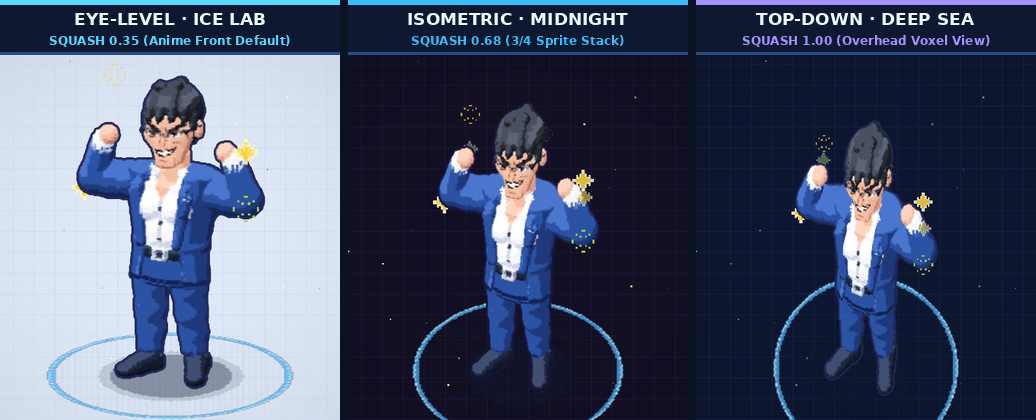
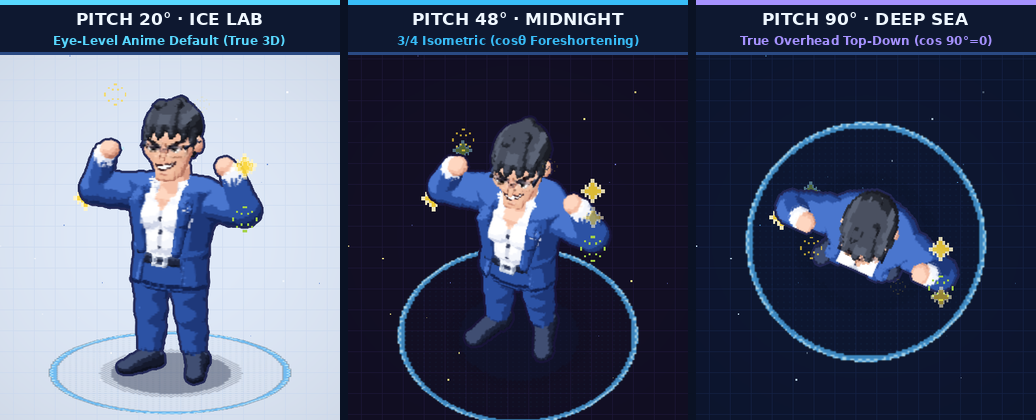
Fix elevation projection with true 3D orthographic sin/cos pitch (15-90 deg)

diff --git a/engine/anime_stack_engine.js b/engine/anime_stack_engine.js
@@ -30,6 +30,9 @@
     { motion: MOTION_LIST[0] ? MOTION_LIST[0].id : "idle", animFps: 24, renderMode: 2, dotSize: 1.35, squash: 0.35, spacing: 1.0, zoom: 1.45, themeIdx: 1, angleDeg: 20.0 },
     CFG.defaults || {}
   );
+  const DEFAULT_PITCH_DEG = (typeof DEFAULTS.pitchDeg === "number")
+    ? Math.max(15, Math.min(90, Math.round(DEFAULTS.pitchDeg)))
+    : Math.max(15, Math.min(90, Math.round((Math.asin(Math.max(0.25, Math.min(1.0, DEFAULTS.squash))) * 180) / Math.PI)));
 
   const TWO_PI = Math.PI * 2;
   const THEMES = [
@@ -59,7 +62,8 @@
     angle: (DEFAULTS.angleDeg * Math.PI) / 180,
     autoSpin: true,
     spinSpeed: 0.42,
-    squash: DEFAULTS.squash,
+    pitchDeg: DEFAULT_PITCH_DEG,
+    squash: Math.sin((DEFAULT_PITCH_DEG * Math.PI) / 180),
     spacing: DEFAULTS.spacing,
     zoom: DEFAULTS.zoom,
     faceFocus: false,
@@ -1054,12 +1058,20 @@
     const assetKey = `${mDef.keyPrefix}${String(fIdx).padStart(2, "0")}`;
     const atlasTex = getAtlasTexture(assetKey);
 
+    // True 3D orthographic elevation: y_screen = rot.y * sin(pitch) - z * cos(pitch) * spacing
+    const pitchRad = (state.pitchDeg * Math.PI) / 180;
+    const sinP = Math.sin(pitchRad);
+    const cosP = Math.cos(pitchRad);
+    state.squash = sinP;
+    const zStep = cosP * state.spacing;
+
     let baseUnitPx;
     if (state.faceFocus) {
       baseUnitPx = Math.min(cw / 108, ch / 118) * (state.zoom / 2.2);
     } else {
       const needW = CHAR.fboVirtW;
-      const needH = CHAR.sliceCount * state.spacing + CHAR.sliceH * 1.1 * state.squash + 44;
+      // Pitch-invariant fit height so tilting the camera never jumps zoom
+      const needH = CHAR.sliceCount * Math.max(1.0, state.spacing) + CHAR.sliceH * 0.42 + 44;
       const fitScale = Math.min(cw / needW, ch / needH);
       baseUnitPx = fitScale * (state.zoom / 1.45);
     }
@@ -1068,14 +1080,21 @@
     const sxMul = state.sqX;
     const syMul = state.sqY;
 
+    // Dynamically center character pivot inside charFbo so all pitch angles (15°..90°) fit cleanly
+    const charBottomMargin = Math.max(22, Math.ceil(CHAR.sliceH * 0.52 * sinP + 14));
+    const charPivotY = Math.min(
+      charFbo.virtH - charBottomMargin,
+      Math.round(charFbo.virtH * 0.5 + (CHAR.sliceCount * 0.44) * zStep)
+    );
+
     // PASS 1A: Main 3D character stack -> charFbo
     if (atlasTex) {
-      const vbo = (state.spacing > 1.32) ? charVBO1x : charVBO2x;
+      const vbo = (zStep < 0.05 || state.spacing > 1.32) ? charVBO1x : charVBO2x;
       renderStackToFbo(
         charFbo, vbo, atlasTex,
         CHAR.sliceW, CHAR.sliceH, CHAR.atlasCols, CHAR.atlasRows,
-        CHAR_PIVOT_X, CHAR_PIVOT_Y,
-        state.angle, state.squash, state.spacing, sxMul, syMul
+        CHAR_PIVOT_X, charPivotY,
+        state.angle, sinP, zStep, sxMul, syMul
       );
     }
 
@@ -1098,14 +1117,19 @@
         const vx = -rx * Math.sin(orbitPh);
         const vy = ry * Math.cos(orbitPh);
         const compAngle = (orb.faceTangent !== false) ? (state.angle + Math.atan2(-vx, vy)) : state.angle;
-        const cVbo = (state.spacing > 1.32) ? cg.vbo1x : cg.vbo2x;
+        const compBottomMargin = Math.max(14, Math.ceil(cd.sliceH * 0.52 * sinP + 8));
+        const compPivotY = Math.min(
+          cg.fbo.virtH - compBottomMargin,
+          Math.round(cg.fbo.virtH * 0.5 + (cd.sliceCount * 0.45) * zStep)
+        );
+        const cVbo = (zStep < 0.05 || state.spacing > 1.32) ? cg.vbo1x : cg.vbo2x;
         renderStackToFbo(
           cg.fbo, cVbo, cTex,
           cd.sliceW, cd.sliceH, cd.atlasCols, cd.atlasRows,
-          cg.pivotX, cg.pivotY,
-          compAngle, state.squash, state.spacing, 1.0, 1.0
+          cg.pivotX, compPivotY,
+          compAngle, sinP, zStep, 1.0, 1.0
         );
-        compDraw = { cg, wx, wy, wz, scale: cd.scale ?? 0.92, outRgb: cd.outlineRgb || theme.outline };
+        compDraw = { cg, pivotY: compPivotY, wx, wy, wz, scale: cd.scale ?? 0.92, outRgb: cd.outlineRgb || theme.outline };
       }
     }
 
@@ -1129,10 +1153,11 @@
     const screenCx = cw * 0.5;
     let screenGroundY;
     if (state.faceFocus) {
-      screenGroundY = ch * 0.56 + CHAR.faceFocusZ * state.spacing * baseUnitPx;
+      screenGroundY = ch * 0.56 + CHAR.faceFocusZ * zStep * baseUnitPx;
     } else {
-      const totalH = (CHAR.sliceCount * state.spacing + 70.0 * state.squash) * baseUnitPx;
-      screenGroundY = ch * 0.50 + totalH * 0.36;
+      // Orbit camera pitch smoothly around character vertical center
+      const midZ = CHAR.sliceCount * 0.44;
+      screenGroundY = ch * 0.51 + midZ * zStep * baseUnitPx;
     }
 
     const ca = Math.cos(state.angle);
@@ -1146,7 +1171,7 @@
       const ry = px * sa + py * ca;
       return {
         sx: screenCx + rx * sxMul * baseUnitPx,
-        sy: screenGroundY + (ry * state.squash - wz * state.spacing) * syMul * baseUnitPx,
+        sy: screenGroundY + (ry * sinP - wz * zStep) * syMul * baseUnitPx,
         depth: ry,
       };
     }
@@ -1163,7 +1188,7 @@
       const ringTex = getStaticTex("turntableRing");
       if (ringTex) {
         const rw = 132 * baseUnitPx;
-        const rh = 132 * state.squash * baseUnitPx;
+        const rh = 132 * sinP * baseUnitPx;
         drawQuadSprite(ringTex, screenCx, screenGroundY, rw, rh, 0.94, 0);
       }
 
@@ -1182,7 +1207,7 @@
             if (rp > 0.0 && rp < 1.0) {
               const pRing = fx.forwardOffset ? project3D(0, fx.forwardOffset + rp * 28, 1.0) : { sx: screenCx, sy: screenGroundY };
               const sc = (fx.startScale ?? 0.60) + rp * (fx.expandScale ?? 1.50);
-              drawQuadSprite(wTex, pRing.sx, pRing.sy, 128 * sc * baseUnitPx, 128 * sc * state.squash * baseUnitPx, Math.sin(rp * Math.PI) * 0.86, 0, [0.85, 0.98, 1.0]);
+              drawQuadSprite(wTex, pRing.sx, pRing.sy, 128 * sc * baseUnitPx, 128 * sc * sinP * baseUnitPx, Math.sin(rp * Math.PI) * 0.86, 0, [0.85, 0.98, 1.0]);
             }
           }
         }
@@ -1191,7 +1216,7 @@
       const shTex = getStaticTex("shadowDither");
       if (shTex) {
         const sw = 74 * airScale * sxMul * baseUnitPx;
-        const sh = 52 * airScale * (state.squash / 0.70) * baseUnitPx;
+        const sh = 74 * airScale * sinP * baseUnitPx;
         drawQuadSprite(shTex, screenCx, screenGroundY, sw, sh, 0.92, 0);
       }
     }
@@ -1208,14 +1233,14 @@
       const shTex = getStaticTex("shadowDither");
       if (state.stageOn && shTex) {
         const ws = project3D(compDraw.wx, compDraw.wy, 0);
-        drawQuadSprite(shTex, ws.sx, ws.sy, 32 * baseUnitPx, 22 * (state.squash / 0.70) * baseUnitPx, 0.42, 0);
+        drawQuadSprite(shTex, ws.sx, ws.sy, 32 * baseUnitPx, 32 * sinP * baseUnitPx, 0.42, 0);
       }
-      compositeFbo(compDraw.cg.fbo, compProj.sx, compProj.sy, compDraw.cg.pivotX, compDraw.cg.pivotY, baseUnitPx * compDraw.scale, compDraw.outRgb, 1.05);
+      compositeFbo(compDraw.cg.fbo, compProj.sx, compProj.sy, compDraw.cg.pivotX, compDraw.pivotY, baseUnitPx * compDraw.scale, compDraw.outRgb, 1.05);
     }
 
     // 2D. MAIN 3D CHARACTER
     if (atlasTex) {
-      compositeFbo(charFbo, screenCx, screenGroundY, CHAR_PIVOT_X, CHAR_PIVOT_Y, baseUnitPx, theme.outline, 1.12);
+      compositeFbo(charFbo, screenCx, screenGroundY, CHAR_PIVOT_X, charPivotY, baseUnitPx, theme.outline, 1.12);
     }
 
     // 2E. FRONT 3D LAYER
@@ -1223,9 +1248,9 @@
       const shTex = getStaticTex("shadowDither");
       if (state.stageOn && shTex) {
         const ws = project3D(compDraw.wx, compDraw.wy, 0);
-        drawQuadSprite(shTex, ws.sx, ws.sy, 32 * baseUnitPx, 22 * (state.squash / 0.70) * baseUnitPx, 0.42, 0);
+        drawQuadSprite(shTex, ws.sx, ws.sy, 32 * baseUnitPx, 32 * sinP * baseUnitPx, 0.42, 0);
       }
-      compositeFbo(compDraw.cg.fbo, compProj.sx, compProj.sy, compDraw.cg.pivotX, compDraw.cg.pivotY, baseUnitPx * compDraw.scale, compDraw.outRgb, 1.05);
+      compositeFbo(compDraw.cg.fbo, compProj.sx, compProj.sy, compDraw.cg.pivotX, compDraw.pivotY, baseUnitPx * compDraw.scale, compDraw.outRgb, 1.05);
     }
     for (let i = 0; i < front.length; i++) {
       const pt = front[i];
@@ -1348,7 +1373,7 @@
     bOut.querySelector("span").textContent = state.outlineOn ? "OUTLINE: ON" : "OUTLINE: OFF";
 
     document.getElementById("txtTheme").textContent = THEMES[state.themeIdx].name;
-    document.getElementById("btnTopView").classList.toggle("active", state.squash >= 0.98);
+    document.getElementById("btnTopView").classList.toggle("active", state.pitchDeg >= 89);
     document.getElementById("btnSpread").classList.toggle("active", state.spacing >= 1.80);
     document.getElementById("btnFaceZoom").classList.toggle("active", state.faceFocus);
   }
@@ -1374,7 +1399,8 @@
     if (state.faceFocus) {
       state.zoom = 2.25;
       state.spacing = 1.0;
-      state.squash = DEFAULTS.squash;
+      state.pitchDeg = DEFAULT_PITCH_DEG;
+      state.squash = Math.sin((state.pitchDeg * Math.PI) / 180);
       syncSpacing();
       syncSquash();
     } else {
@@ -1405,7 +1431,12 @@
     });
 
     syncFps = bindPixelSlider("slFps", 6, 36, 1, () => state.animFps, (v) => { state.animFps = Math.round(v); }, (v) => { valFps.textContent = String(Math.round(v)); });
-    syncSquash = bindPixelSlider("slSquash", 0.35, 1.0, 0.01, () => state.squash, (v) => { state.squash = v; syncButtons(); }, (v) => { valSquash.textContent = v.toFixed(2); });
+    syncSquash = bindPixelSlider(
+      "slSquash", 15, 90, 1,
+      () => state.pitchDeg,
+      (v) => { state.pitchDeg = Math.round(v); state.squash = Math.sin((state.pitchDeg * Math.PI) / 180); syncButtons(); },
+      (v) => { valSquash.textContent = String(Math.round(v)) + "°"; }
+    );
     syncSpacing = bindPixelSlider("slSpacing", 0.5, 2.2, 0.05, () => state.spacing, (v) => { state.spacing = v; syncButtons(); }, (v) => { valSpacing.textContent = v.toFixed(2); });
     syncZoom = bindPixelSlider("slZoom", 0.8, 3.2, 0.05, () => state.zoom, (v) => { state.zoom = v; }, (v) => { valZoom.textContent = v.toFixed(2) + "x"; });
 
@@ -1448,8 +1479,24 @@
     }
 
     document.getElementById("btnPlayAnim").addEventListener("click", togglePlayAnim);
-    document.getElementById("btnTopView").addEventListener("click", () => { state.faceFocus = false; state.squash = state.squash >= 0.98 ? DEFAULTS.squash : 1.0; syncSquash(); syncButtons(); });
-    document.getElementById("btnSpread").addEventListener("click", () => { state.faceFocus = false; state.spacing = state.spacing >= 1.80 ? 1.0 : 2.0; syncSpacing(); syncButtons(); });
+    document.getElementById("btnTopView").addEventListener("click", () => {
+      state.faceFocus = false;
+      state.pitchDeg = state.pitchDeg >= 89 ? DEFAULT_PITCH_DEG : 90;
+      state.squash = Math.sin((state.pitchDeg * Math.PI) / 180);
+      syncSquash();
+      syncButtons();
+    });
+    document.getElementById("btnSpread").addEventListener("click", () => {
+      state.faceFocus = false;
+      state.spacing = state.spacing >= 1.80 ? 1.0 : 2.0;
+      if (state.spacing >= 1.80 && state.pitchDeg > 65) {
+        state.pitchDeg = 38;
+        state.squash = Math.sin((state.pitchDeg * Math.PI) / 180);
+        syncSquash();
+      }
+      syncSpacing();
+      syncButtons();
+    });
     document.getElementById("btnFaceZoom").addEventListener("click", toggleFaceFocus);
     document.getElementById("btnBounce").addEventListener("click", () => impulseSquash(0.84, 1.20));
     document.getElementById("btnAutoSpin").addEventListener("click", () => { state.autoSpin = !state.autoSpin; syncButtons(); });
@@ -1470,7 +1517,8 @@
       state.autoSpin = true;
       state.springOn = true;
       state.fxOn = true;
-      state.squash = DEFAULTS.squash;
+      state.pitchDeg = DEFAULT_PITCH_DEG;
+      state.squash = Math.sin((state.pitchDeg * Math.PI) / 180);
       state.spacing = DEFAULTS.spacing;
       state.zoom = DEFAULTS.zoom;
       state.faceFocus = false;

diff --git a/engine/viewer_shell.html b/engine/viewer_shell.html
@@ -585,15 +585,15 @@
         </div>
 
         <div class="slider-row">
-          <span class="slider-label">SQUASH</span>
-          <div class="px-slider" id="slSquash" role="slider" tabindex="0" aria-label="Camera Squash" aria-valuemin="0.35" aria-valuemax="1.00" aria-valuenow="0.35">
+          <span class="slider-label">PITCH</span>
+          <div class="px-slider" id="slSquash" role="slider" tabindex="0" aria-label="Camera Pitch Angle" aria-valuemin="15" aria-valuemax="90" aria-valuenow="20">
             <div class="px-slider-track">
               <div class="px-slider-fill"></div>
               <div class="px-slider-ticks"></div>
             </div>
             <div class="px-slider-thumb"></div>
           </div>
-          <span class="slider-val" id="valSquash">0.35</span>
+          <span class="slider-val" id="valSquash">20°</span>
           <button class="px-btn slider-action" id="btnTopView" type="button">TOP</button>
         </div>
 

diff --git a/README.md b/README.md
@@ -62,11 +62,11 @@
   <img src="assets/render_styles_compare.png" alt="4 Render Modes: SMOOTH AA / PIXEL+AA / RETRO PX / SILKY 3D" width="860" />
 </p>
 
-### 3. リアルタイム視点ピッチ（SQUASH）＆ 3 スタジオテーマ
-160 枚の 2D スライス層を GPU 上で連続回転・2 倍インターリーブ補間（計 320 層）することで、アイレベル寄りのアニメ視点（`0.35`）から 3/4 アイソメトリック・真上トップダウン視点（`1.00`）までシームレスに連続変化。3 種類の背景テーマも即時切替できます。
+### 3. 真の 3D 正射影ピッチ（`PITCH 15°〜90°`）＆ 3 スタジオテーマ
+160 枚の 2D スライス層を GPU 上で連続回転し、**真の 3D 正射影（`y = rot.y · sin(θ) − z · cos(θ)`）** と 2 倍インターリーブ補間（計 320 層）で投影。アイレベル寄りのアニメ視点（`20°`）から 3/4 アイソメトリック（`48°`）、真上トップダウン視点（`90°`）までボディが伸びずに自然な立体感を維持します。
 
 <p align="center">
-  <img src="assets/camera_themes_demo.png" alt="Camera Pitch (SQUASH 0.35 / 0.68 / 1.00) & 3 Themes (ICE LAB / DEEP SEA / MIDNIGHT)" width="820" />
+  <img src="assets/camera_themes_demo.png" alt="True 3D Orthographic Camera Pitch (20° / 48° / 90°) & 3 Themes (ICE LAB / MIDNIGHT / DEEP SEA)" width="820" />
 </p>
 
 ### 4. 本エンジン採用ショーケース（[kuraneko1/deepseek-chan-3d](https://github.com/kuraneko1/deepseek-chan-3d)）
@@ -156,7 +156,7 @@ flowchart LR
   - `PIXEL+AA`: 正方形ドット粒感＋滑らか境界 AA（`DOT SIZE` 調整対応）
   - `RETRO PX`: ハードエッジドット＋4 方向階段輪郭＋カラー量子化
   - `SILKY 3D`: フィギュア風の滑らかバイリニア補間
-- **アニメ映え初期設定**: `SQUASH 0.35`（アイレベル寄り正面視点）・`ICE LAB`（明るいスタジオ背景）・`SMOOTH AA` を標準設定。
+- **アニメ映え初期設定 & 真の 3D 俯瞰投影**: `PITCH 20°`（`sin θ ≈ 0.35`・`cos θ` による正確な Z 短縮投影）・`ICE LAB`（明るいスタジオ背景）・`SMOOTH AA` を標準設定。
 - **複数 3D スタック前後 Z ソート**: 主役キャラの周囲を泳ぐ 3D 相棒モデル（第 2 FBO）や 3D パーティクルを、カメラ角度に応じて自動でキャラの後ろ／前面へ正確に前後ソート。
 - **宣言的 `motion_pack.json`**: モーション一覧・3D 相棒軌道・吹き出しオーバーレイ・3D パーティクル（`sparkle_perimeter` / `orbit_trail` / `burst_above` / `forward_slash_fan` / `helix_vortex` / `floor_wave_rings`）を JSON で定義するだけでエンジン無改造で動作。
 - **24 コマ・バレットタイムタイムライン**: 一時停止＆スクラブしながら 360° 回転させて攻撃エフェクトや 3D 相棒を観察可能。

diff --git a/README.en.md b/README.en.md
@@ -62,11 +62,11 @@ Switch instantaneously between silky anime anti-aliasing, chunky pixel grain, cl
   <img src="assets/render_styles_compare.png" alt="4 Render Modes: SMOOTH AA / PIXEL+AA / RETRO PX / SILKY 3D" width="860" />
 </p>
 
-### 3. Real-Time Camera Elevation (`SQUASH`) & 3 Studio Themes
-160 stacked 2D slice textures rotate continuously on the GPU with 2× interleaved sub-slice interpolation (320 effective layers), letting you glide seamlessly from eye-level anime view (`0.35`) through isometric 3/4 to true overhead top-down (`1.00`) across 3 studio themes.
+### 3. True 3D Orthographic Pitch (`15°–90°`) & 3 Studio Themes
+160 stacked 2D slice textures rotate continuously on the GPU with **true 3D orthographic elevation (`y = rot.y · sin θ − z · cos θ`)** and 2× interleaved sub-slice interpolation (320 effective layers)—gliding smoothly from eye-level anime view (`20°`) through 3/4 isometric (`48°`) to true top-down (`90°`) with zero vertical body distortion.
 
 <p align="center">
-  <img src="assets/camera_themes_demo.png" alt="Camera Pitch (SQUASH 0.35 / 0.68 / 1.00) & 3 Themes (ICE LAB / DEEP SEA / MIDNIGHT)" width="820" />
+  <img src="assets/camera_themes_demo.png" alt="True 3D Orthographic Camera Pitch (20° / 48° / 90°) & 3 Themes (ICE LAB / MIDNIGHT / DEEP SEA)" width="820" />
 </p>
 
 ### 4. Flagship Showcase Built with This Engine ([kuraneko1/deepseek-chan-3d](https://github.com/kuraneko1/deepseek-chan-3d/blob/main/README.en.md))
@@ -156,7 +156,7 @@ flowchart LR
   - `PIXEL+AA`: Crisp square pixel dots with smooth antialiased outer edges (adjustable `DOT SIZE`).
   - `RETRO PX`: Classic hard-edge pixels + 4-way stepped pixel outline + retro color quantization.
   - `SILKY 3D`: Smooth bilinear figurine-style surface rendering.
-- **Anime-Ready Defaults**: Ships tuned out of the box with `SQUASH 0.35` (eye-level front angle), `ICE LAB` studio theme, and `SMOOTH AA`.
+- **Anime-Ready Defaults & True 3D Elevation**: Ships tuned with `PITCH 20°` (`sin θ ≈ 0.35` with exact `cos θ` vertical foreshortening), `ICE LAB` studio theme, and `SMOOTH AA`.
 - **Multi-Stack 3D Depth Z-Sorting**: Automatically sorts orbiting 3D companion models (rendered to a second FBO) and 3D particle emitters cleanly behind or in front of the hero character at every camera angle.
 - **Declarative `motion_pack.json`**: Define motions, orbiting 3D companions, overhead thought-bubble memes, and 3D particle emitters (`sparkle_perimeter`, `orbit_trail`, `burst_above`, `forward_slash_fan`, `helix_vortex`, `floor_wave_rings`) purely in JSON—no engine JS modifications required.
 - **24-Frame Bullet-Time Timeline**: Pause and scrub any frame while orbiting 360° around slashes, shockwaves, and 3D companions.

diff --git a/README.zh-CN.md b/README.zh-CN.md
@@ -62,11 +62,11 @@
   <img src="assets/render_styles_compare.png" alt="4 种着色模式：SMOOTH AA / PIXEL+AA / RETRO PX / SILKY 3D" width="860" />
 </p>
 
-### 3. 实时俯仰视角（`SQUASH`）与 3 套棚拍主题
-160 张 2D 切片在 GPU 上连续旋转并叠加 2 倍交错子切片插值（等效 320 层），支持从贴近平视的二次元视角（`0.35`）、经典 3/4 等距视角到正上方俯视（`1.00`）丝滑过渡，并内置三套棚拍主题一键切换。
+### 3. 真 3D 正交俯仰角（`PITCH 15°–90°`）与 3 套棚拍主题
+160 张 2D 切片在 GPU 上连续旋转，采用**真 3D 正交投影（`y = rot.y · sin θ − z · cos θ`）**并叠加 2 倍交错子切片插值（等效 320 层），从平视二次元视角（`20°`）、3/4 等距视角（`48°`）到正上方俯视（`90°`）丝滑过渡且彻底杜绝身体拉伸变形。
 
 <p align="center">
-  <img src="assets/camera_themes_demo.png" alt="视角俯仰 (SQUASH 0.35 / 0.68 / 1.00) 与 3 套主题 (ICE LAB / DEEP SEA / MIDNIGHT)" width="820" />
+  <img src="assets/camera_themes_demo.png" alt="真 3D 正交俯仰视角 (20° / 48° / 90°) 与 3 套主题 (ICE LAB / MIDNIGHT / DEEP SEA)" width="820" />
 </p>
 
 ### 4. 本引擎实装代表作（[kuraneko1/deepseek-chan-3d](https://github.com/kuraneko1/deepseek-chan-3d/blob/main/README.zh-CN.md)）
@@ -156,7 +156,7 @@ flowchart LR
   - `PIXEL+AA`：保留方形像素颗粒感并叠加顺滑边缘抗锯齿（支持自由调节 `DOT SIZE`）。
   - `RETRO PX`：经典硬边像素 ＋ 四向阶梯描边 ＋ 复古色阶量化。
   - `SILKY 3D`：双线性柔滑手办质感。
-- **二次元出片默认参数**：开箱即设为 `SQUASH 0.35`（贴近平视正面视角）、`ICE LAB` 明亮棚拍背景与 `SMOOTH AA`。
+- **二次元出片默认参数与真 3D 俯仰投影**：开箱即设为 `PITCH 20°`（`sin θ ≈ 0.35`，配精确 `cos θ` 纵轴透视缩短）、`ICE LAB` 明亮棚拍背景与 `SMOOTH AA`。
 - **多 3D 堆叠前后深度 Z 排序**：自动依据当前相机角度将环绕角色的 3D 伙伴模型（独立 FBO）与 3D 粒子精准排序至角色身前或身后。
 - **声明式 `motion_pack.json`**：动作列表、3D 伙伴环绕轨道、头顶思考气泡、3D 粒子发射器（`sparkle_perimeter` / `orbit_trail` / `burst_above` / `forward_slash_fan` / `helix_vortex` / `floor_wave_rings`）全部通过 JSON 配置，无需改动引擎代码。
 - **24 帧「子弹时间」时间轴**：支持暂停并拖动任意单帧，同时 360° 环绕观察刀光、冲击波与 3D 伙伴细节。

diff --git a/SKILL.md b/SKILL.md
@@ -15,7 +15,7 @@ description: >-
 Create crisp, 360°-rotatable, **24-FPS anime-style pseudo-3D characters** powered by a decoupled 3-layer architecture:
 1. **Model & Facial Projection Layer** ([toolkit/gpu_sdf.py](./toolkit/gpu_sdf.py), [toolkit/anime_face_kit.py](./toolkit/anime_face_kit.py)): GPU-accelerated (CuPy with NumPy CPU fallback) 3D SDF sculpting, hair-cleaned original-artwork tilted face projection (`14.5°`), and warm-skin-halo-free expression synthesis.
 2. **24-FPS Animation, Rig & FX Authoring Layer** ([toolkit/rig_contracts.py](./toolkit/rig_contracts.py), [toolkit/pixel_fx_kit.py](./toolkit/pixel_fx_kit.py), [toolkit/qa_validator.py](./toolkit/qa_validator.py)): Unified FK + 3D IK `PoseFrame` contracts, seamless periodic curves, volume-preserving squash & stretch, phase-delayed spring lag, automated pre-bake & post-bake QA, and Playwright GIF recording.
-3. **Character-Agnostic WebGL 2-Pass Display Engine** ([engine/anime_stack_engine.js](./engine/anime_stack_engine.js), [engine/viewer_shell.html](./engine/viewer_shell.html), [engine/bundle_standalone.py](./engine/bundle_standalone.py)): Data-driven runtime consuming declarative `motion_pack.json` with continuous 0.001° GPU rotation, 2x interleaved sub-slices, 2x-SSAA FBO, 4 live render modes (`SMOOTH AA` default, `PIXEL+AA`, `RETRO PX`, `SILKY 3D` + `DOT SIZE`), eye-level anime defaults (`SQUASH 0.35`, `ICE LAB`), multi-object 3D companion Z-sorting, floating billboard overlays, and depth-sorted 3D particles.
+3. **Character-Agnostic WebGL 2-Pass Display Engine** ([engine/anime_stack_engine.js](./engine/anime_stack_engine.js), [engine/viewer_shell.html](./engine/viewer_shell.html), [engine/bundle_standalone.py](./engine/bundle_standalone.py)): Data-driven runtime consuming declarative `motion_pack.json` with continuous 0.001° GPU rotation, true 3D orthographic elevation (`y = rot.y * sin(pitch) - z * cos(pitch)` across `15°–90°`), 2x interleaved sub-slices, 2x-SSAA FBO, 4 live render modes (`SMOOTH AA` default, `PIXEL+AA`, `RETRO PX`, `SILKY 3D` + `DOT SIZE`), eye-level anime defaults (`PITCH 20°` / `squash: 0.35`, `ICE LAB`), multi-object 3D companion Z-sorting, floating billboard overlays, and depth-sorted 3D particles.
 
 > **Credits & Inspiration**:
 > - Greatly inspired by **[SpriteCook — Sprite stacking for fake 3D pixel art cars and props](https://www.spritecook.ai/blog/sprite-stacking-pixel-art)** for foundational sprite-stacking concepts.
